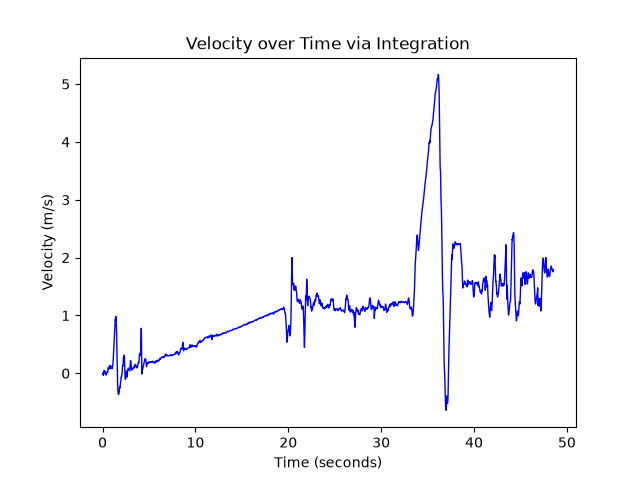
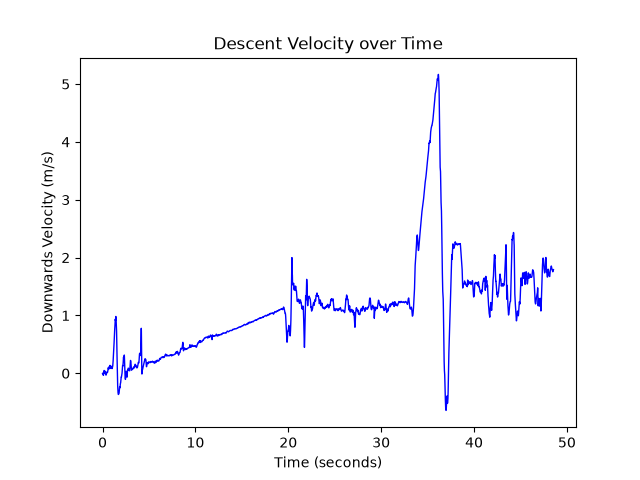
Make downwarsd

Changed region(s): [[0.2812, 0.0625, 0.75, 0.125], [0.0625, 0.3125, 0.0938, 0.6875]]

diff --git a/src/main.py b/src/main.py
@@ -51,8 +51,8 @@ def graph(vt):
     velocity, time = vt
     plt.plot(time, velocity, label="Velocity", color="blue", linewidth=1)
     plt.xlabel("Time (seconds)")
-    plt.ylabel("Velocity (m/s)")
-    plt.title("Velocity over Time")
+    plt.ylabel("Downwards Velocity (m/s)")
+    plt.title("Descent Velocity over Time")
     plt.savefig(PATH + "out/run-" + OBJECT + str(RUN))
     plt.show()
 
@@ -90,4 +90,5 @@ if __name__ == '__main__':
             RUN = j
             ACCEL = pd.read_csv(PATH + "data/Obj-" + OBJECT + "-Runs/" + str(RUN) + "/Accelerometer.csv", index_col='time')
             ORIENT = pd.read_csv(PATH + "data/Obj-" + OBJECT + "-Runs/" + str(RUN) + "/Orientation.csv", index_col='time')
-            print(i + str(j) + " " + str(find_slope_midsect(integrate())))
+            # print(i + str(j) + " " + str(find_slope_midsect(integrate())))
+            graph(integrate())

diff --git a/README.md b/README.md
@@ -1,12 +1,17 @@
-# Physics Depth Study: Velocity Derivation and Comparison of Vertical Acceleration
+# Physics Depth Study: Downwards Velocity Derivation and Comparison of Vertical Acceleration
 Intergration is utilized to find velocity after rotating acceleration vectors to align with real-world acceleration.  
-The vertical velocity will be taken as the phone's down direction is always known, while horizontal direction
+The downwards vertical velocity will be taken as the phone's down direction is always known, while horizontal direction
 is relative to the device's starting rotation.
 
 
 From derived velocity, motion during the descent can be identified and compared. The method utilized to derive a clean
 acceleration sample, is the taking of the mid-section of velocity ramp, and calculating the slope, deriving
 acceleration.
+
+## Structure
+`data/` contains the raw sensor data of all of the trials for Object A and Object B.  
+`out/` contains generated graphs.  
+`src/` contains the code utilized to produce derived data.
 
 ## References
 Matplotlib. (2012). *Matplotlib: Python plotting — Matplotlib 3.1.1 documentation.*
